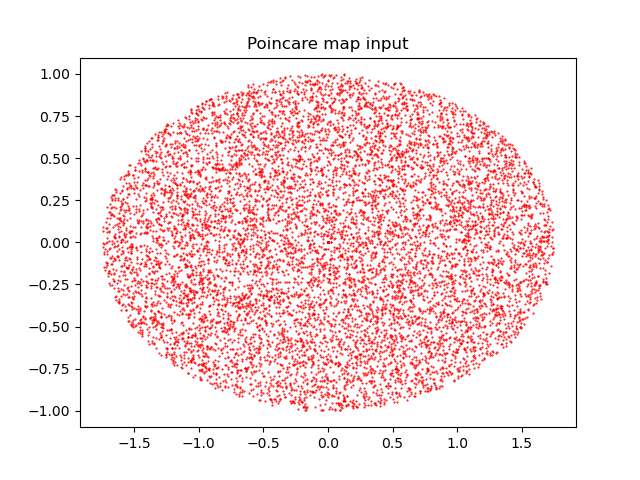
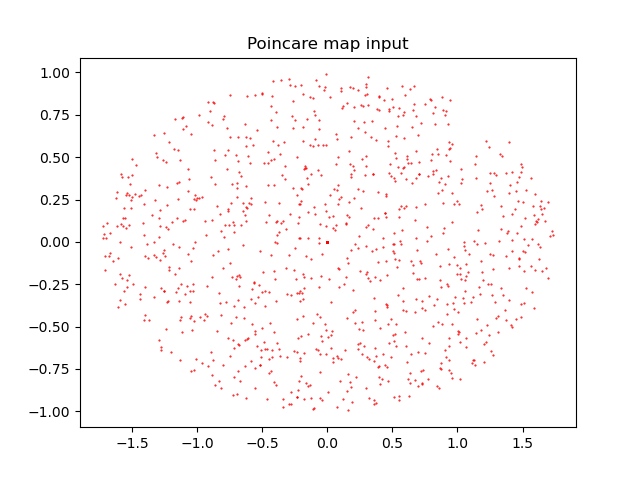
checking ppend input

diff --git a/HenonNets/resonant_magnetic/poinplot_res_mag.py b/HenonNets/resonant_magnetic/poinplot_res_mag.py
@@ -79,32 +79,32 @@ r1=1.75
 r2=1.0
 eps=get_eps()
 data_raw = gen_samples_pmap([0,0], r1,r2, 10000, 400,eps)
-lables_raw = gen_labels(data_raw, 400000, 1,eps)
+#labels_raw = gen_labels(data_raw, 400000, 1,eps)
 print("done generating labels and data")
-#loc=(labels_raw[:,0]/r1)**2 + (labels_raw[:,1]/r2)**2
-#ind=np.argwhere(loc <= 1.0) #check if in ellipse
-#n_data = len(ind) if len(ind) < 400000 else 400000
-n_data  = 400000
+print(np.shape(data_raw))
 
 #data=np.zeros([n_data,2])
 #data[:,0:1]=data_raw[:,0]
 #data[:,1:2]=data_raw[:,1]
-data = data_raw[:,:]
+data = data_raw
 #labels=np.zeros([n_data,2])
-labels = labels_raw[:,:]
+#labels = labels_raw
 #labels[:,0:1]=labels_raw[:,0]
 #labels[:,1:2]=labels_raw[:,1]
 
 print("starting viz data")
 #visualize training data
-fig, ax = plt.subplots()
-plt.plot(labels[:,0],labels[:,1],'.',markersize=1)
-ax.set_title('Poincare map output')
+#fig, ax = plt.subplots()
+#plt.plot(labels[:,0],labels[:,1],'.',markersize=1)
+#ax.set_title('Poincare map output')
+#plt.savefig('res_mag_out_data.png')
+
 fig, ax = plt.subplots()
 plt.plot(data[:,0],data[:,1],'r.',markersize=1)
 ax.set_title('Poincare map input')
-plt.savefig('res_mag_inout_data.png')
+plt.savefig('res_mag_in_data.png')
 
+sys.exit()
 rate_init = 0.1
 def scheduler(epoch):
     if epoch < 20:
@@ -149,8 +149,8 @@ test_model.setvals(unit_schedule, ymean_tf, ydiam_tf)
 Adamoptimizer = keras.optimizers.Adam()
 test_model.compile(optimizer = Adamoptimizer, loss = loss_fun)
 
-h = test_model.fit(tf.convert_to_tensor(data[:n_data], dtype = tf.float64)
-    ,tf.convert_to_tensor(labels[:n_data], dtype = tf.float64)
+h = test_model.fit(tf.convert_to_tensor(data, dtype = tf.float64)
+    ,tf.convert_to_tensor(labels, dtype = tf.float64)
     , batch_size = 400, epochs = 7000, verbose=0, callbacks = [callback])
 
 
